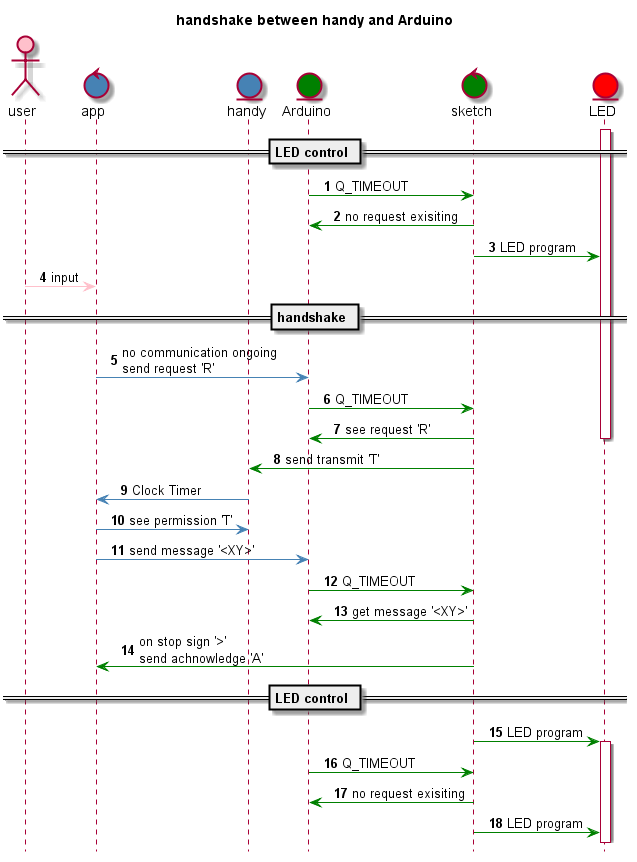
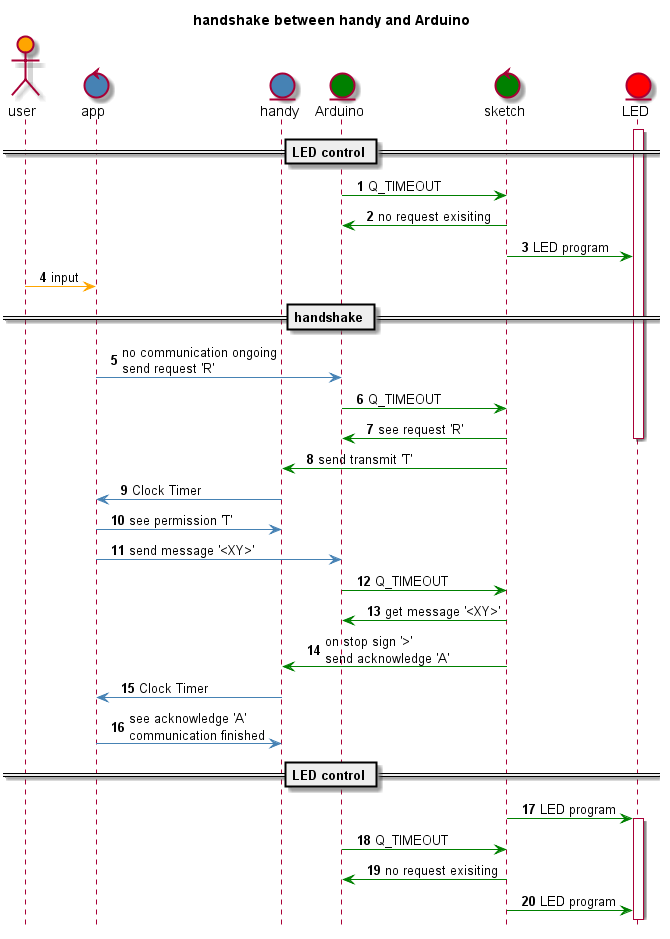
clarification

diff --git a/README.md b/README.md
@@ -52,9 +52,9 @@ E) An expected trouble free handshake is implemented this way (see picture below
 If a colour or a LED program is changed in the app (4) and there isn't already a communication going on, it first sends only 1 char 'R' as a request to the Arduino and waits for the answer (5).  
 The char lands in the USART Serial receive buffer. The sketch looks time triggered (6) into the receive buffer and when it sees the request (7), it sends a transmit char 'T' to the app (8).  
 If the app sees the transmit char (10), also time triggered (9) by a Clock Timer, it sends the 4 char data (11) and waits for the acknowledge of the Arduino. Because the sketch knows at this time that it awaits data it looks time triggered (12) for the start sign (13).
-With the start sign '<' the transfered data are processed until the stop sign '>' shows up (14). Then the acknowledge sign 'A' is send (14) and turns to the LED program (15).  
-When the app receives the acknowledge sign it becomes ready for a next transmission (14).  
-The sketch looks periodically time triggered (1, 16) into the receive buffer and turns back right away to the LED program if there is no new request (2, 17).  
+With the start sign '<' the transfered data are processed until the stop sign '>' shows up (14). Then the acknowledge sign 'A' is send (14) and turns to the LED program (17).  
+When the app receives time triggered (15) the acknowledge sign it becomes ready for a next transmission (16).  
+The sketch looks periodically time triggered (1, 18) into the receive buffer and turns back right away to the LED program if there is no new request (2, 20).  
 ![handshake](doc/handshake.png)
 ### 8  Technical specifications
 Used hardware:  
